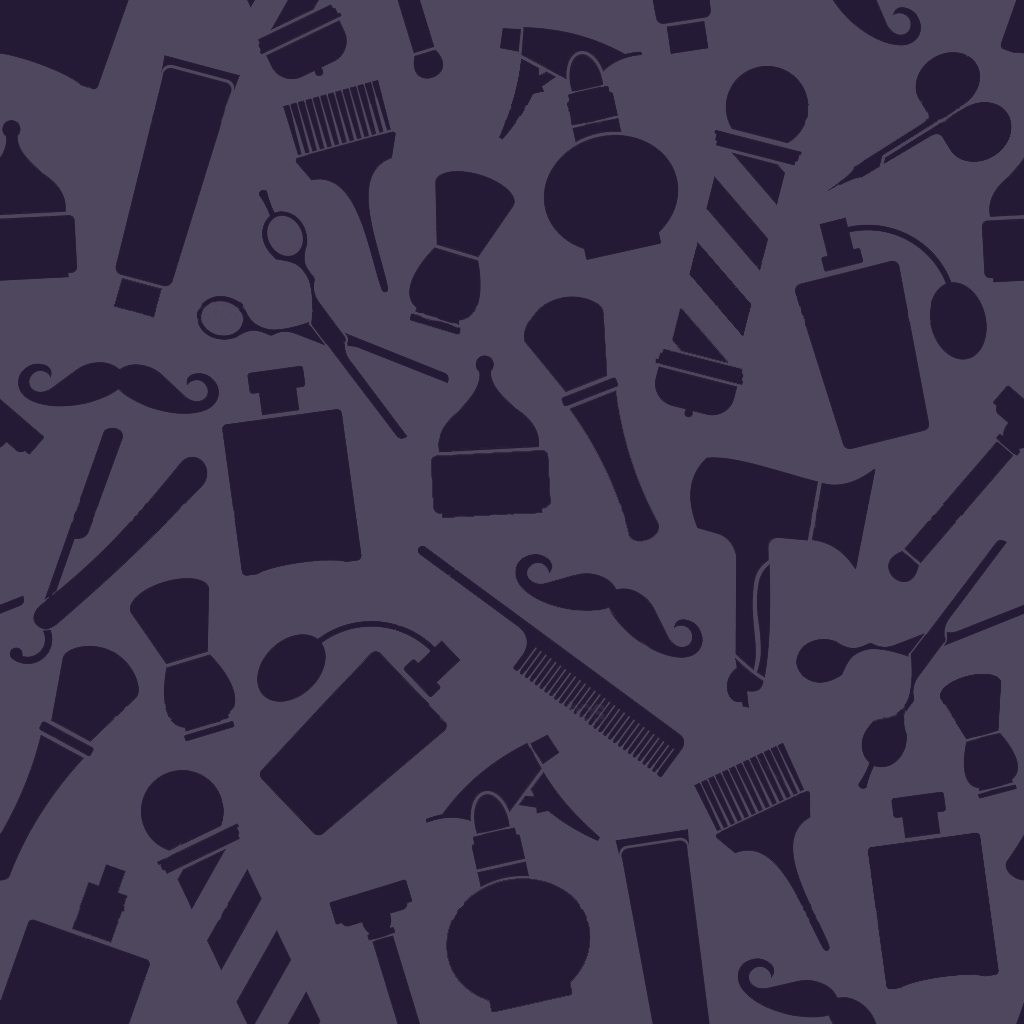
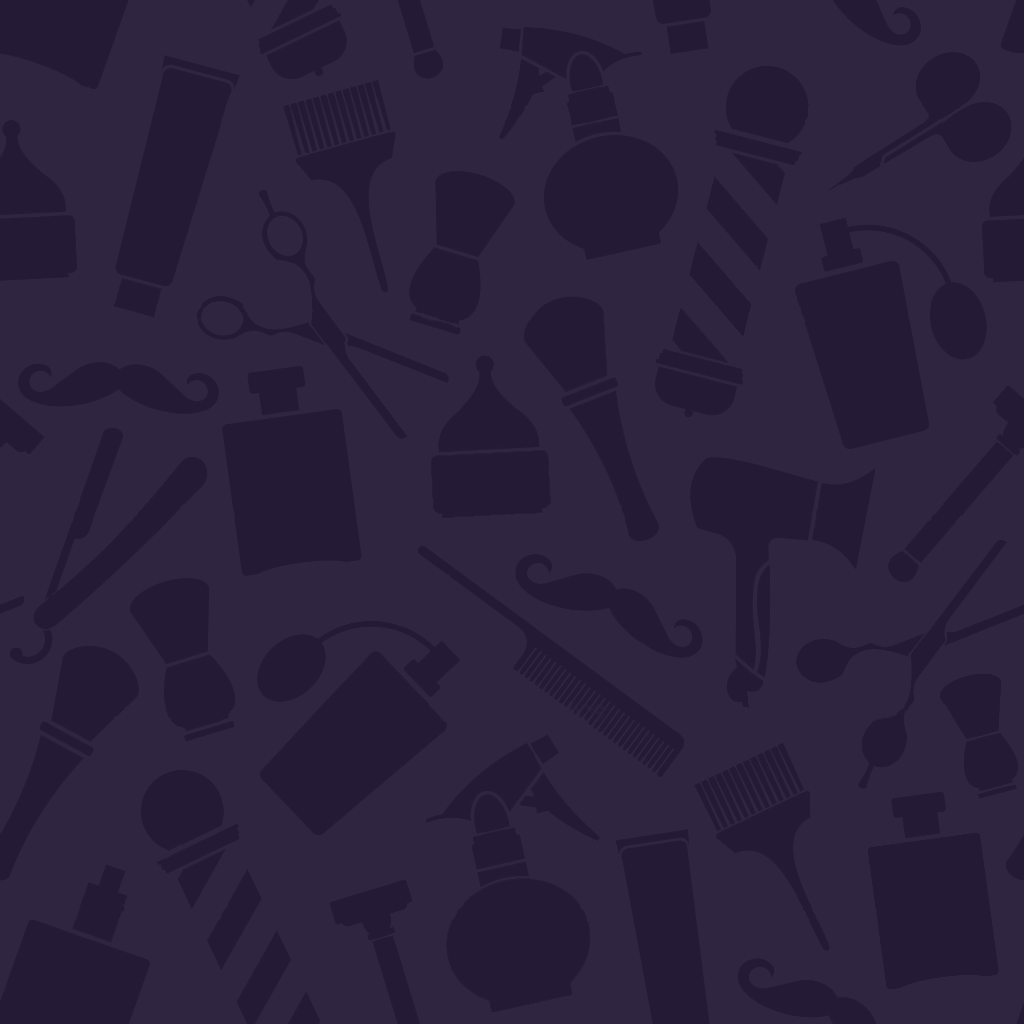
paralax-effect

diff --git a/index.html b/index.html
@@ -180,8 +180,10 @@
   </div>
 </section>
 
-<section>
-  
+<section class="contacts" id="contacts">
+  <div class="height">
+
+  </div>
 </section>
 
 <script src="//cdnjs.cloudflare.com/ajax/libs/less.js/2.5.3/less.min.js"></script>

diff --git a/css/main.less b/css/main.less
@@ -192,4 +192,9 @@ body {
       width: 100%;
     }
   }
+  
+  .contacts {
+    background: url("../img/cont_img.png");
+
+  }
 }
